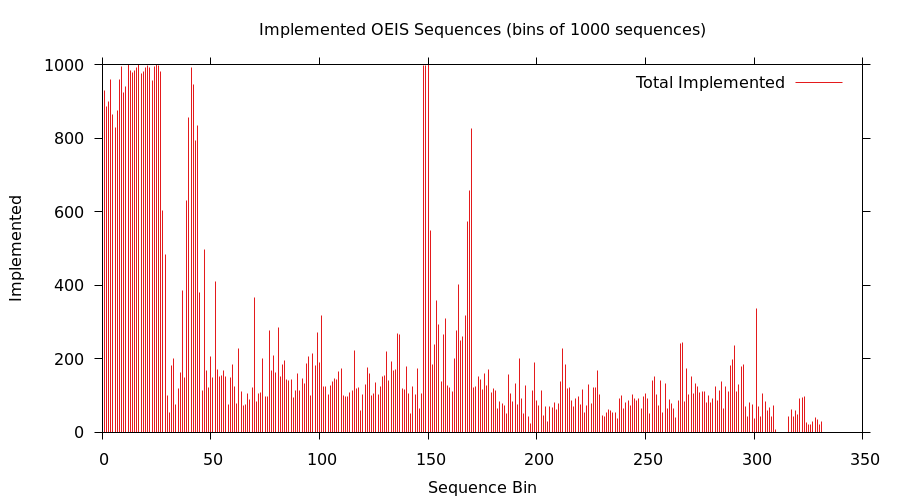
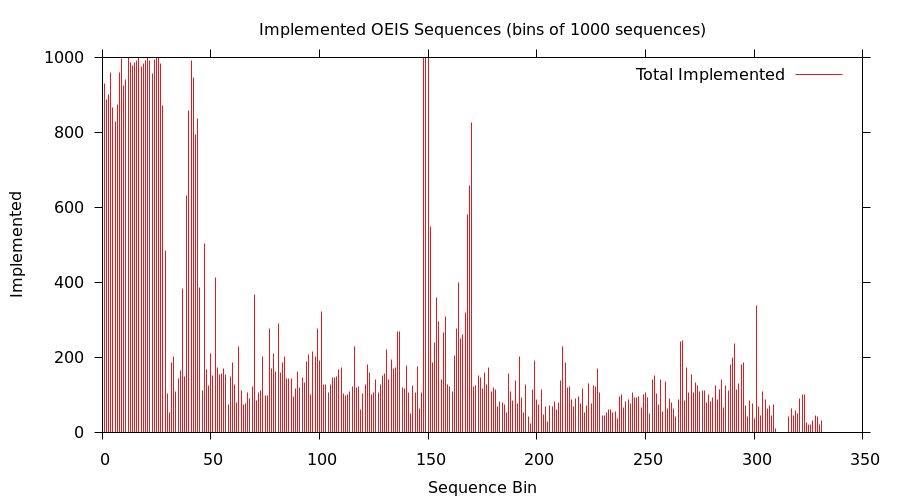
Graphs

diff --git a/README.md b/README.md
@@ -6,7 +6,7 @@ Encyclopedia of Integer Sequences](https://oeis.org/) (OEIS).
 
 This is likely the largest coherent collection of programs for OEIS
 sequences beyond the Maple, Mathematica, and Pari programs directly
-associated with many entries.  Currently over 72500 sequences are
+associated with many entries.  Currently over 74000 sequences are
 implemented. The following plot shows the number of sequences
 implemented (in bins of 1000):
 
